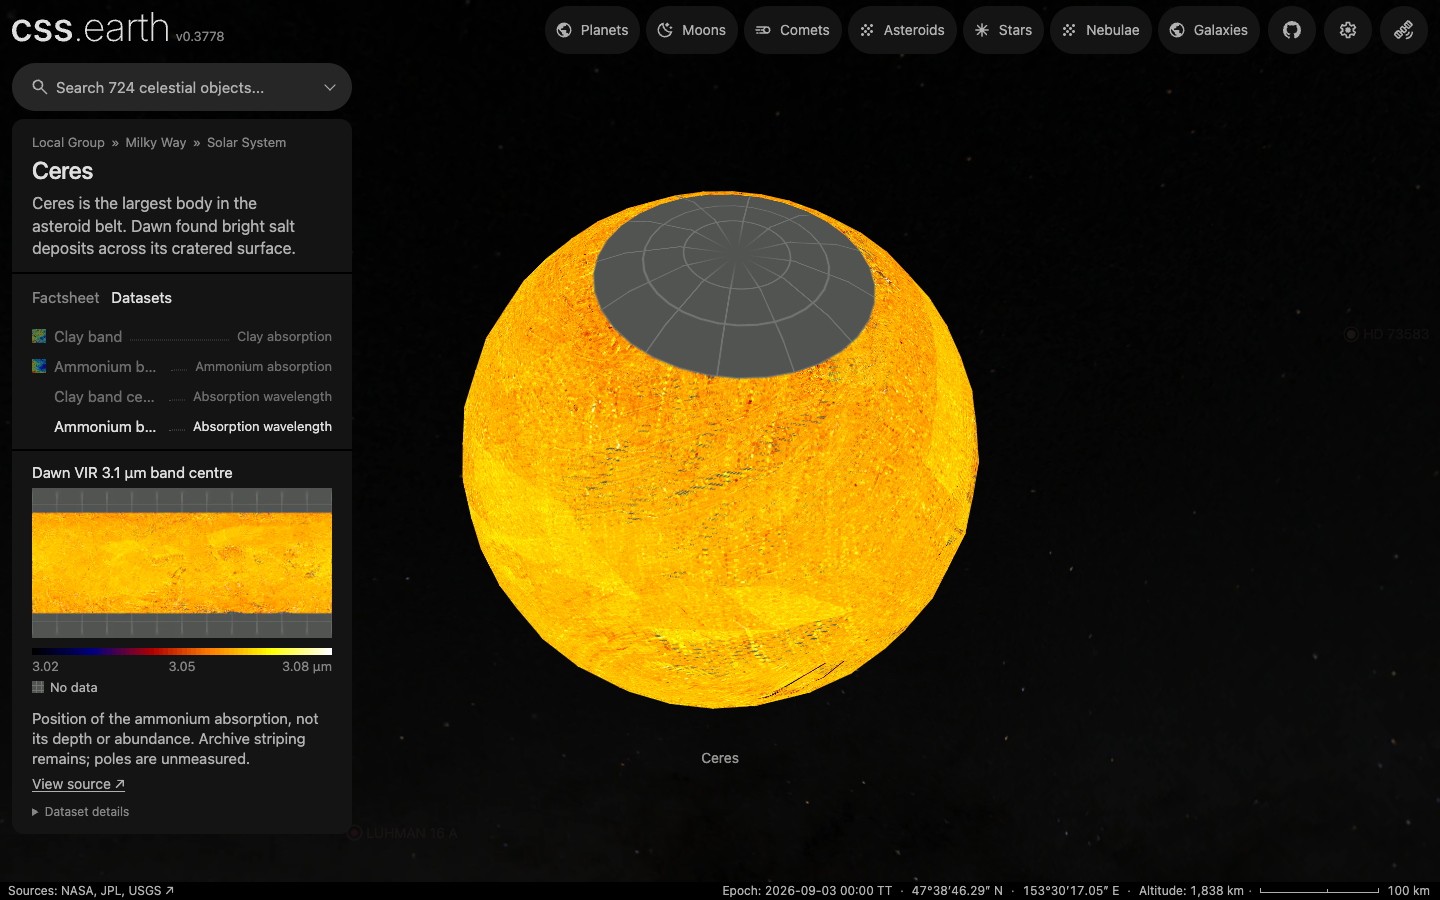
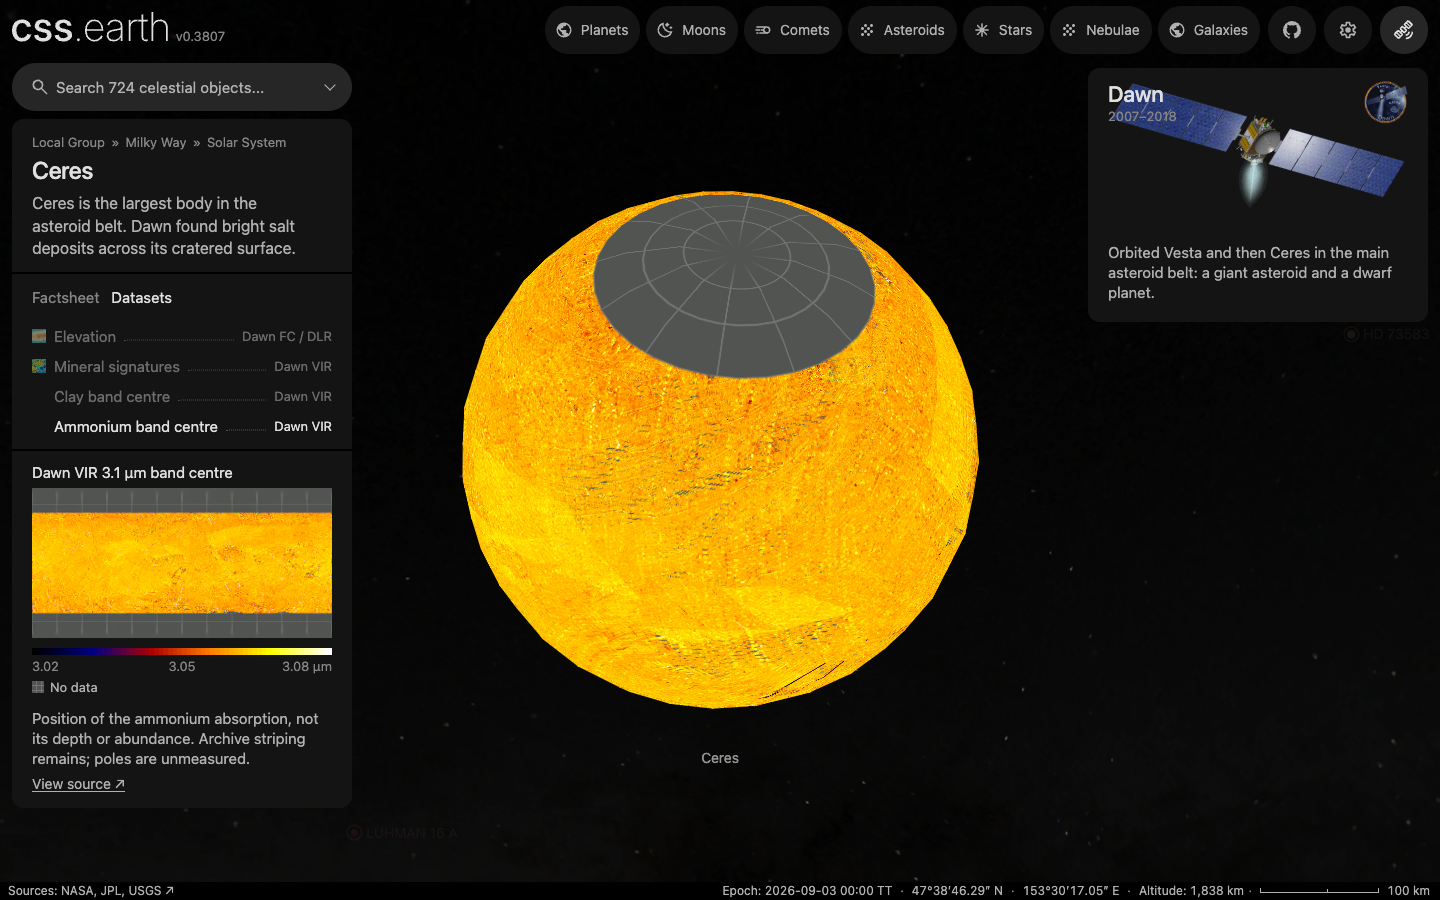
docs: record Io and Ceres qualification and delivery

diff --git a/docs/provenance/investigation-index.md b/docs/provenance/investigation-index.md
@@ -4,7 +4,7 @@ Generated by `node tools/investigations/report-investigations.mts --index --writ
 decisions, not scientific readiness.
 
 **Ledgers:** 542 of 568 catalogued objects.
-**Open decisions:** 1072 (941 unresolved, 131 deferred).
+**Open decisions:** 1071 (941 unresolved, 130 deferred).
 
 ## Where the reopening evidence would appear
 
@@ -15,7 +15,7 @@ The source each decision examined. Watching these is how a decision reopens.
 | damit.cuni.cz | 257 | abundantia, adelheid, aegina, aethra, aglaja, alexandra, +168 more |
 | arxiv.org | 72 | adelheid, aegina, aemilia, agenor, aglaja, alkmene, +56 more |
 | doi.org | 50 | bienor, braille, ce-tauri, chariklo, chiron, comet-1p, +31 more |
-| sbnarchive.psi.edu | 30 | atlas, comet-109p, comet-153p, comet-167p, comet-17p, comet-21p, +24 more |
+| sbnarchive.psi.edu | 29 | atlas, comet-109p, comet-153p, comet-167p, comet-17p, comet-21p, +23 more |
 | tilmanndenk.de | 23 | albiorix, bebhionn, bergelmir, bestla, erriapus, fornjot, +16 more |
 | archive.eso.org | 18 | albion, callirrhoe, crantor, damocles, dysnomia, halimede, +12 more |
 | www.stsci.edu | 17 | albion, alpha-centauri-a, altair, amycus, aya, chiron, +11 more |
@@ -172,7 +172,6 @@ The source each decision examined. Watching these is how a decision reopens.
 | `daily-viirs-imagery` | 1 | earth | A daily or composite VIIRS product provides gap-free global coverage suitable for the surface lens. |
 | `dark-red-spot-colour-variation` | 1 | haumea | A published surface map or rotationally resolved colour model fixes the region's extent and contrast in a body-fixed frame. |
 | `dated-report` | 1 | pluto | A dated run for this Pluto version is recorded in the package. |
-| `dawn-vir-band-centers` | 1 | ceres | A lens for band position is wanted and a published color scale for the band-center maps is found, for example in Frigeri et al. (2019). |
 | `deep-impact-li-2013-photometric-normalization` | 1 | comet-9p | A verified formulation and matching filter calibration improve both retained terrain coverage and independent overlaps. |
 | `delivery-blocker` | 1 | omega-centauri | The unchanged actual-renderer handoff gate and main-app visual acceptance pass, including acceptable close-zoom presentation. Navigation, context visibility, cold replay and R2 restoration do not waive these requirements. |
 | `deposit-temperature-conversion` | 1 | wasp-43b | The conversion code or stellar spectrum behind the deposited maps is published. |
@@ -227,7 +226,7 @@ The source each decision examined. Watching these is how a decision reopens.
 | `its-9000697` | 1 | comet-9p | The frame passes independent terrain-overlap registration and contributes useful detail at the supported atlas resolution. |
 | `its-9000704` | 1 | comet-9p | The frame passes independent terrain-overlap registration and contributes useful detail at the supported atlas resolution. |
 | `its-9000710` | 1 | comet-9p | The frame passes independent terrain-overlap registration and contributes useful detail at the supported atlas resolution. |
-| `jiram-orbits-51-to-60` | 1 | io | The mosaic tool fits the limb with Io's ellipsoid and the orbits 51 to 60 frames are screened. |
+| `jiram-orbits-51-to-60` | 1 | io | Additional sequences meet registration and overlap checks, partial-disc fits qualify or archive volumes 59/60 become available. |
 | `jpl-map-search` | 1 | nereid | A linked Nereid map or shape release provides downloadable data with coordinates, quantity and coverage for inspection. |
 | `jpl-texture-catalog-pds-shape-releases-and-usgs-mapp` | 1 | juliet | The inspected shape archive or a cited primary release publishes a Juliet-specific numerical model with its frame, units and reconstruction method. |
 | `juno-and-mapped-products` | 1 | amalthea | A cited release supplies resolved Amalthea measurements with sufficient body-fixed coverage for a distinct lens. |

diff --git a/src/objects/ceres/README.md b/src/objects/ceres/README.md
@@ -50,6 +50,16 @@ of the 2016 figure.
 The archive's record-count and acquisition-date inconsistencies described below
 also occur in the centre labels.
 
+The [clay](evidence/band-centres/clay-centre.png) and
+[ammonium](evidence/band-centres/ammonium-centre.png) browser views were inspected
+on 27 September in Chromium at 1440 × 900, DPR 2, saved at 1440 pixels wide,
+with Shadows off. Switching lenses loaded each map's own title, units and image
+without page errors or failed requests; a 390 × 844, DPR 2 phone view also passed.
+The recipes and numeric checks are from `734ad10780629e11b09707ff5d0c0f5601ecb02e`;
+later changes retain main's Mineral signatures group and shorten these two
+selector subtitles to “Dawn VIR”. The shared focused checks and fresh delivery
+verification are recorded in [Io's qualification](../io/README.md#close-pass-volcanic-heat-27-september-2026).
+
 Polar sprites now sample the pinned original photographs directly, preserving the declared coordinates and source gaps. Existing monochrome fallback is retained where a color view already uses it. Each sprite is 1024 × 512 pixels, the one prepared density; latitude-band images, geometry and lighting remain unchanged. [The shared preparation guide](../../../docs/surface-preparation.md#preserve-photographic-detail-through-preparation) describes the method and its limits.
 
 | View | Both prepared levels, before → current |

diff --git a/src/objects/io/README.md b/src/objects/io/README.md
@@ -107,6 +107,17 @@ qualified by this correction.
 See the [measured positions](evidence/jiram-close-passes/final-map-check.json) and
 [screened fits](evidence/jiram-close-passes/close-receipt.json).
 
+The [corrected map in the browser](evidence/jiram-close-passes/volcanic-heat.png)
+was inspected on 27 September in Chromium at 1440 × 900, DPR 1 and 2,
+with Shadows off and on, and at 390 × 844, DPR 2. No page errors or failed
+desktop asset requests occurred. The preparation code and map are from
+`734ad10780629e11b09707ff5d0c0f5601ecb02e`; later changes update delivery metadata,
+captions and evidence only. The 20 focused JIRAM, PDS-reader, object-contract,
+dataset-selection and investigation-report tests and preparation typecheck pass.
+A fresh restore verified every file in the Io and Ceres inventories, and the
+new source-cache float map matched its measured SHA-256. Faint residual tracks
+and smear remain; the screenshot does not establish absolute radiometry.
+
 The 17 orbit-57 and 22 orbit-58 images did not yield three overlapping qualified
 night-side frames per cell. Their [December](evidence/jiram-close-passes/orbit57-receipt.json)
 and [February](evidence/jiram-close-passes/orbit58-receipt.json) trials are retained;
